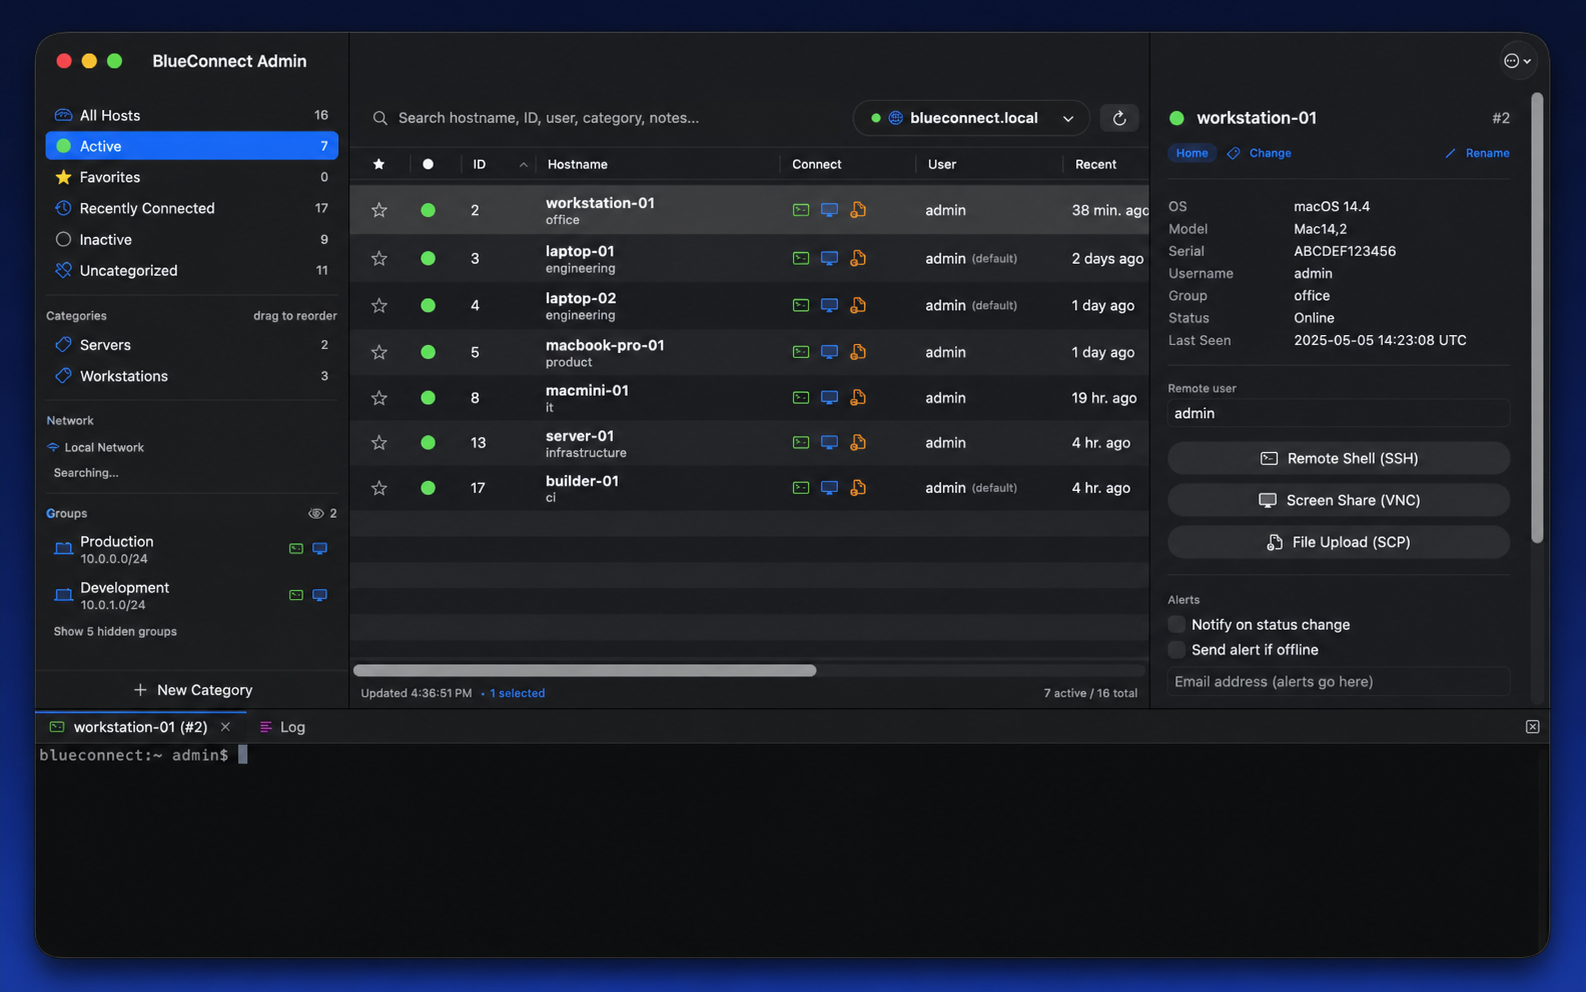
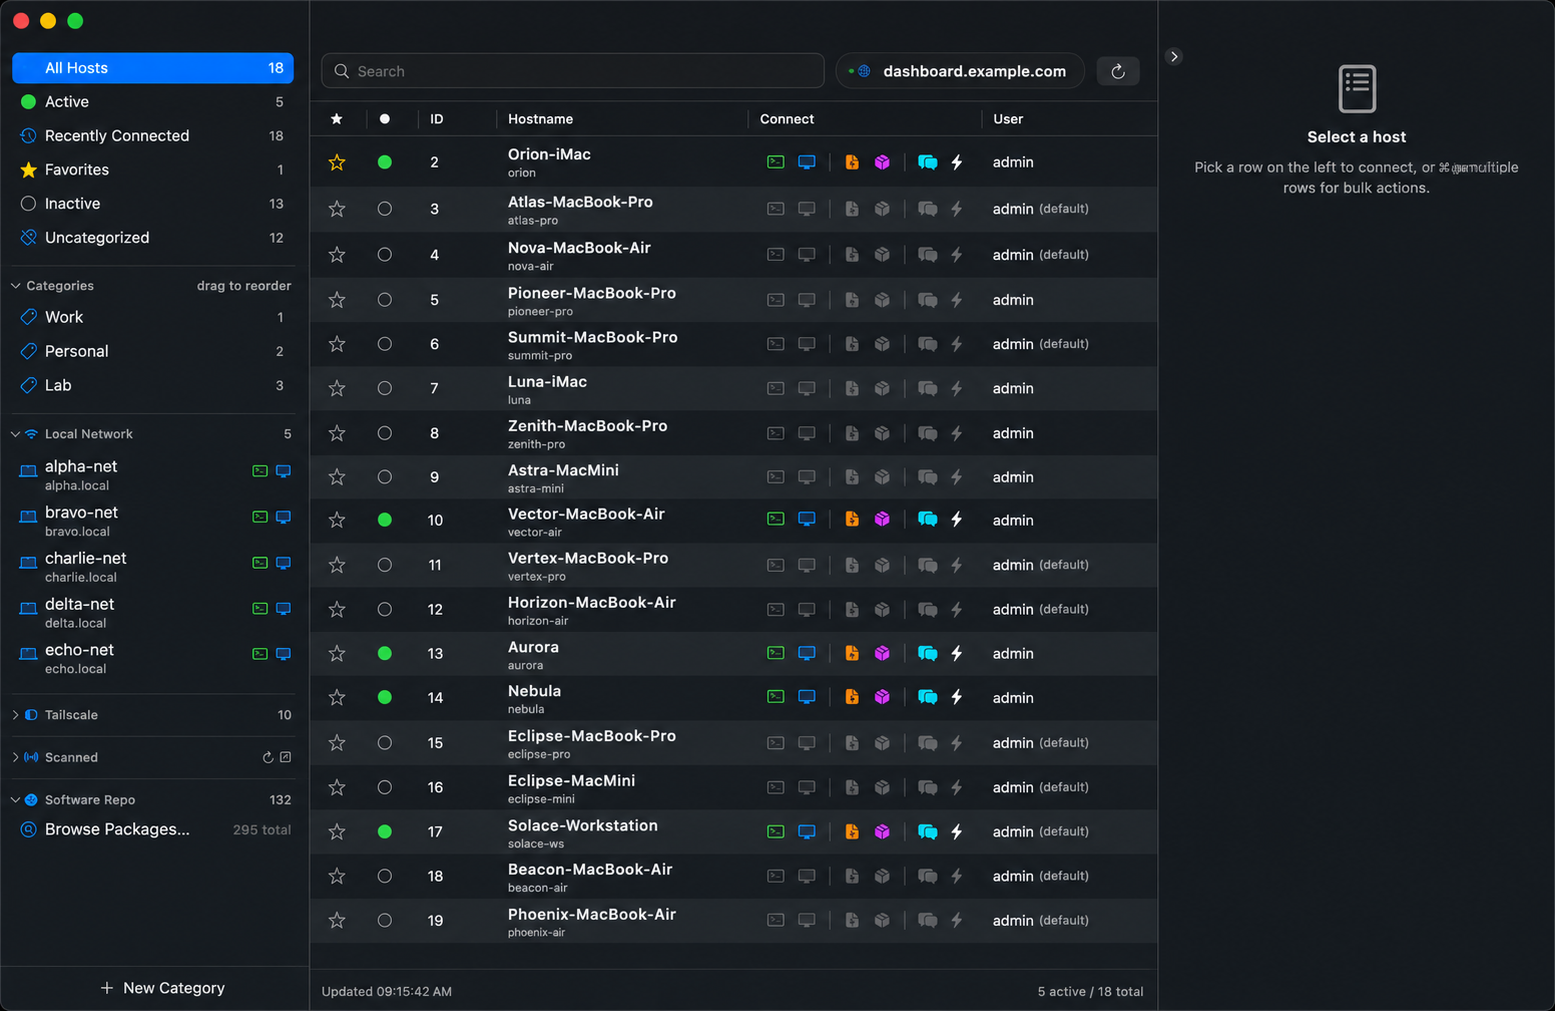
Docs: v1.5.0 README screenshot swap + upgrade callout
- Resources/screenshot.png: replaced with the new main-window
  screenshot (sort/filter sidebar + Connect column row icons +
  status pills).
- Resources/screenshots/install-picker.png and network-scan.png:
  new section screenshots referenced from RELEASE_NOTES (which is
  gitignored — consumed by release.sh at tag time).
- README.md: rewrite the upgrade callout. v1.5.0 is the next
  public release after v1.2.0; the 1.3 / 1.4 work that was
  internal-only rolls up here. Server-side PHP redeploy step
  unchanged.

diff --git a/README.md b/README.md
@@ -5,8 +5,8 @@ A native macOS admin client for [BlueSkyConnect](https://github.com/BlueSkyTools
 ![BlueConnect Admin screenshot](Resources/screenshot.png)
 
 > [!IMPORTANT]
-> **Upgrading from v1.2.x? Re-deploy the server-side PHP after updating the Mac app.** (Upgrading from v1.3.x is Mac-app-only — no server changes for v1.4.0.)
-> [v1.3.0](https://github.com/echoparkbaby/BlueConnect-Admin/releases/tag/v1.3.0) introduced a new `bs_blocklist.json.php` endpoint, a new `block` / `unblock` action in `bs_host_action.json.php` (with an auto-installed `BlueSky.blocked_serials` table + BEFORE INSERT trigger that refuses re-registration of sold/transferred Macs), and an updated `blueconnect_api.php` covering seven additional MunkiReport modules — local users, network, Wi-Fi, software updates, profiles, time machine, pending installs. The Mac app upgrade alone doesn't pick up those server-side changes; you have to push the new PHP files:
+> **Upgrading from v1.2.x? Re-deploy the server-side PHP after updating the Mac app.**
+> v1.5.0 is the next public release after v1.2.0 — internal builds tagged 1.3 and 1.4 were rolled into this one. The Mac app introduces a new `bs_blocklist.json.php` endpoint, a new `block` / `unblock` action in `bs_host_action.json.php` (with an auto-installed `BlueSky.blocked_serials` table + BEFORE INSERT trigger that refuses re-registration of sold/transferred Macs), and an updated `blueconnect_api.php` covering seven additional MunkiReport modules — local users, network, Wi-Fi, software updates, profiles, time machine, pending installs. The Mac app upgrade alone doesn't pick up those server-side changes; you have to push the new PHP files:
 >
 > ```sh
 > ./deploy-server.sh <ssh-user>@<bsc-host>
@@ -19,9 +19,9 @@ A native macOS admin client for [BlueSkyConnect](https://github.com/BlueSkyTools
 >     <user>@<mr-host>:~/<munkireport-stack>/public/
 > ```
 >
-> Recommended on the BSC LXC for the new Block Host Permanently feature: `bash ~/docker/stacks/bluesky/scripts/install-blocklist-cron.sh` installs a per-minute sweeper that scrubs any rogue row + key the BEFORE INSERT trigger didn't catch.
+> Recommended on the BSC LXC for the Block Host Permanently feature: `bash ~/docker/stacks/bluesky/scripts/install-blocklist-cron.sh` installs a per-minute sweeper that scrubs any rogue row + key the BEFORE INSERT trigger didn't catch.
 >
-> See the [v1.3.0 release notes](https://github.com/echoparkbaby/BlueConnect-Admin/releases/tag/v1.3.0) for the full list — new Browse Quick Actions window, Block Host Permanently / Unblock UI, expanded MR inventory sections, Logout User MR-backed picker, Set Computer Name live preview, ⌘0 to reopen the main window, action consolidations.
+> See [RELEASE_NOTES.md](RELEASE_NOTES.md) for the full v1.5.0 list — UniFi multi-profile, Install Package picker rework, MunkiReport Run Runner with live log, Munki favorites, plus everything that landed in the rolled-up 1.3 / 1.4 work.
 
 ## Highlights
 